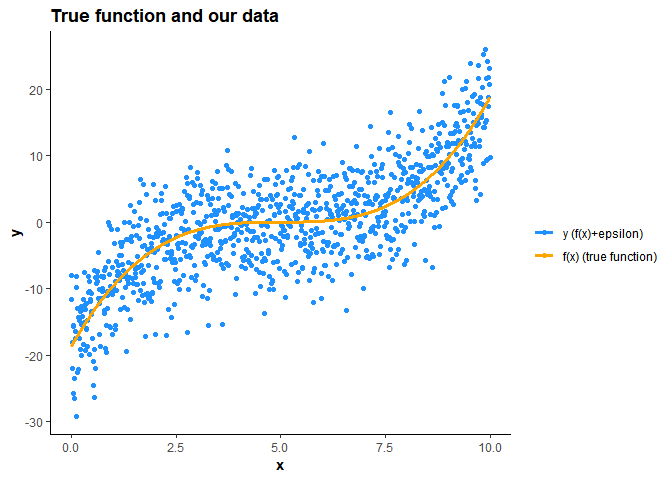
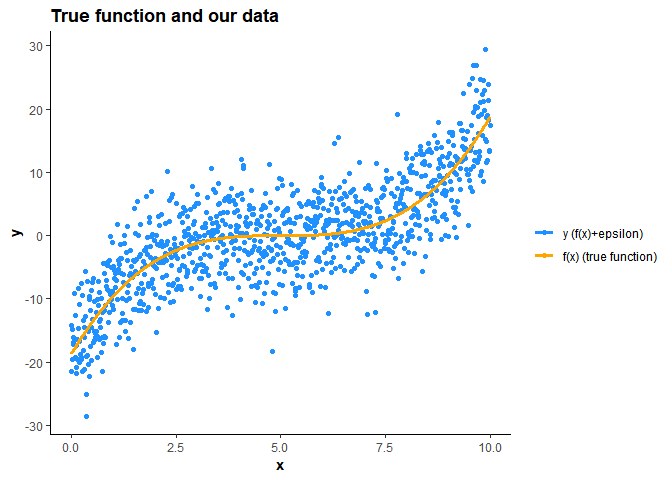
isl_발제자료

diff --git a/docs/4_ISLR_Book/02_Statistical Learning & Bias-Variance Trade-off.md b/docs/4_ISLR_Book/02_Statistical Learning & Bias-Variance Trade-off.md
@@ -1,4 +1,4 @@
-# 02 Statistical Learning
+## 02 Statistical Learning
 
 ------------------------------------------------------------------------
 
@@ -361,7 +361,7 @@ ggplot(example)+
 
 이렇게 셋팅을 하고 **sample size**가 **100**인 **1000** (simulation 횟수) 개의 train set ![D](https://latex.codecogs.com/png.latex?D "D")를 generate 했으며 각각의 데이터셋 ![D\_1](https://latex.codecogs.com/png.latex?D_1 "D_1"),![D\_2](https://latex.codecogs.com/png.latex?D_2 "D_2"),...![D\_{1000}](https://latex.codecogs.com/png.latex?D_%7B1000%7D "D_{1000}") 에 대해 1, 3, 6, 12로 차수를 늘려가며 4개의 다항회귀모형을 적합하였고,
 
-Test MSE의 계산을 위한 new observation (![x\_0](https://latex.codecogs.com/png.latex?x_0 "x_0"), ![y\_0](https://latex.codecogs.com/png.latex?y_0 "y_0")) (![(8,f(8))](https://latex.codecogs.com/png.latex?%288%2Cf%288%29%29 "(8,f(8))")) 를 정의하였으며 예측치들을 `predictions` 이라는 행렬로 저장하였다.
+Bias 와 Variance의 추정치를 계산하고 비교를 위해 new observation을 (![x\_0](https://latex.codecogs.com/png.latex?x_0 "x_0"), ![y\_0](https://latex.codecogs.com/png.latex?y_0 "y_0")) (![(8,f(8)+\\epsilon)](https://latex.codecogs.com/png.latex?%288%2Cf%288%29%2B%5Cepsilon%29 "(8,f(8)+\epsilon)")) 를 정의하였으며 예측치들을 `predictions` 이라는 행렬로 저장하였다.
 
 ``` r
 ## number of simulations
@@ -369,9 +369,6 @@ n_sim = 1000
 ## number of models
 n_model = 4
 degrees=c(1,3,6,12)
-
-## define test set
-new_data=data.frame(x=8,y=f(8))
 
 
 ## predictions
@@ -417,12 +414,14 @@ grid.arrange(plot1,plot3,plot6,plot12,
 ## Bias - Variance Trade-Off Simulation 
 options(scipen=999)
 set.seed(2013122044)
-
+y=c()
 ## 1000 simulations
 for (sim in 1:n_sim){
   
   ## generate dataset with sample size 100
   sim_data=get_sim(f,100)
+  new_data=data.frame(x=8,y=f(8)+rnorm(1,0,5))
+  y=append(y,new_data$y)
   
   ## model fitting and predictions
   for (j in 1:length(degrees)){
@@ -458,11 +457,10 @@ ggplot(data =melt(predictions),aes(x=variable, y=value))+
 
 ``` r
 ## Test MSE
-test_mse=apply(predictions,2,mse,test=f(8))
+test_mse=apply(predictions,2,mse,test=y)
 
 ## Bias^2
 bias_squared=(apply(predictions,2,bias,test=f(8)))^2
-
 ## Variance
 var=apply(predictions,2,variance,test=f(8))
 
@@ -471,18 +469,18 @@ results=data.frame('Test MSE'=test_mse,'Bias Squared'=bias_squared,'Variance'=va
 kable(results,format='markdown') 
 ```
 
-|      |   Test.MSE|  Bias.Squared|   Variance|
-|:-----|----------:|-------------:|----------:|
-| 1th  |  7.9000519|     7.1575396|  0.7425123|
-| 3th  |  0.7576468|     0.0017169|  0.7559299|
-| 6th  |  1.3258296|     0.0003601|  1.3254694|
-| 12th |  2.9330009|     0.0000029|  2.9329980|
+|      |  Test.MSE|  Bias.Squared|   Variance|
+|:-----|---------:|-------------:|----------:|
+| 1th  |  32.09436|     6.9552496|  0.6985917|
+| 3th  |  25.39866|     0.0014614|  0.7204642|
+| 6th  |  26.03019|     0.0011937|  1.3122572|
+| 12th |  27.99150|     0.0047051|  3.0742542|
 
 3차 다항회귀를 적합했을때, 우리가 알고있다고 가정한 true function ![f](https://latex.codecogs.com/png.latex?f "f") 가 3차함수였으므로 Test MSE가 가장 작다고 유추할 수 있다.
 
-**Note :** 정의한 함수로 계산되는 Test MSE를 보면 정확히 Bias의 제곱과 Variance의 합임을 알 수 있다.
+**Note :** 정의한 함수로 계산되는 Test MSE를 보면 정확히 Bias의 제곱과 Variance의 합이 아님을 알 수 있다.
 
-정의대로면 추가적으로 ![Var(\\epsilon)](https://latex.codecogs.com/png.latex?Var%28%5Cepsilon%29 "Var(\epsilon)") 이 고려되어야 하지만 이는 우리가 시뮬레이션을 위해 new observation ![y\_0](https://latex.codecogs.com/png.latex?y_0 "y_0") 값을 안다고 가정했기 때문에 아직 관측되지 않은 ![y\_0](https://latex.codecogs.com/png.latex?y_0 "y_0") 값 자체가 가지는 irreducible error (![\\epsilon](https://latex.codecogs.com/png.latex?%5Cepsilon "\epsilon"))을 고려하지 않았기 때문이다.
+정의대로면 추가적으로 ![Var(\\epsilon)~\\approx25](https://latex.codecogs.com/png.latex?Var%28%5Cepsilon%29~%5Capprox25 "Var(\epsilon)~\approx25") 가 고려되어야 하기 때문이다.
 
 ------------------------------------------------------------------------
 
